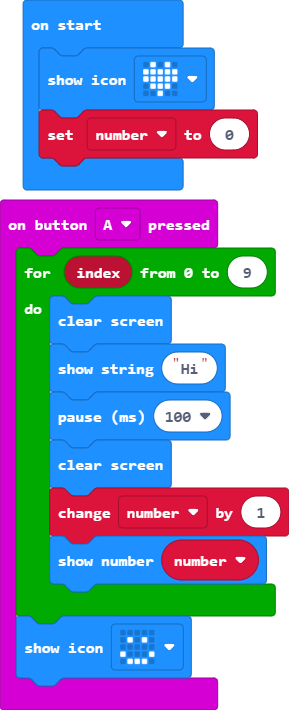
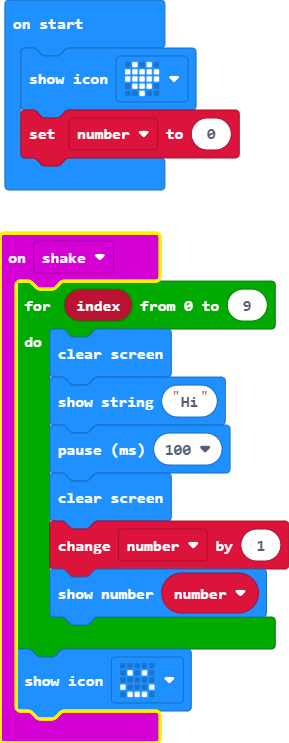
Update main.blocks, main.ts

diff --git a/main.ts b/main.ts
@@ -1,4 +1,4 @@
-input.onButtonPressed(Button.A, function () {
+input.onGesture(Gesture.Shake, function () {
     for (let index = 0; index <= 9; index++) {
         basic.clearScreen()
         basic.showString("Hi")
